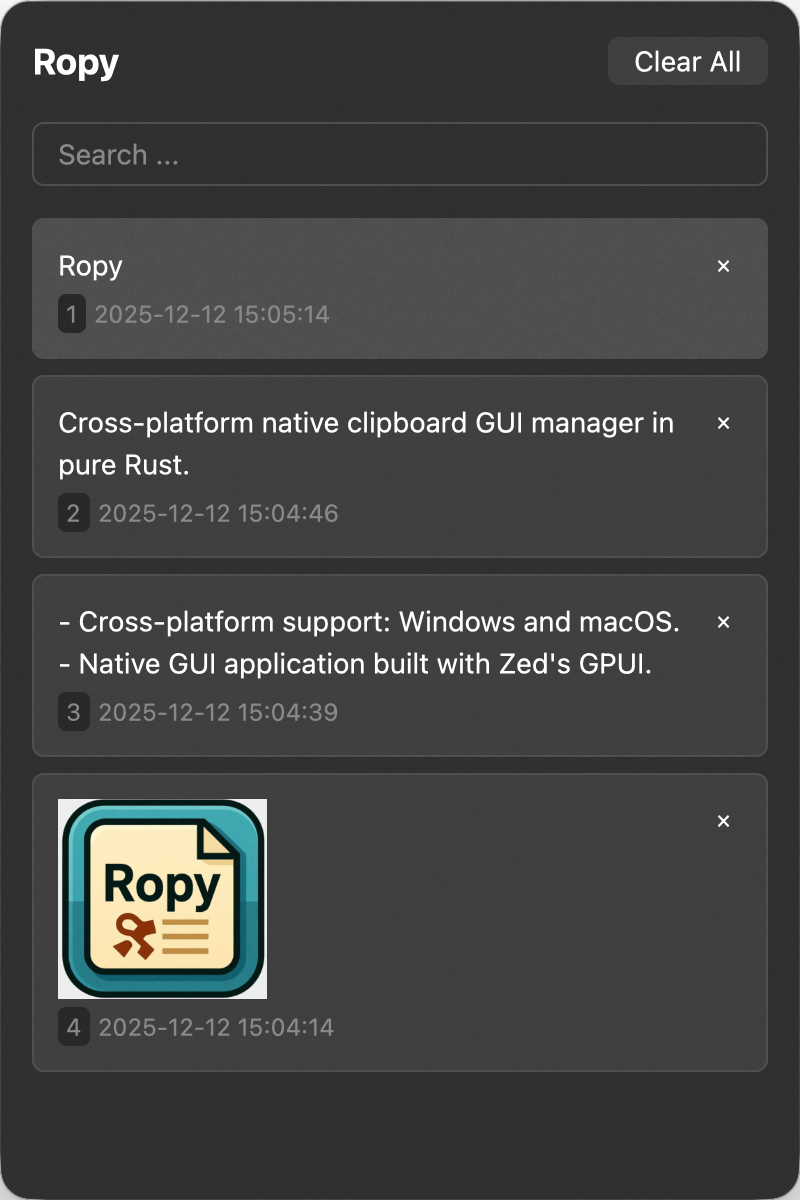
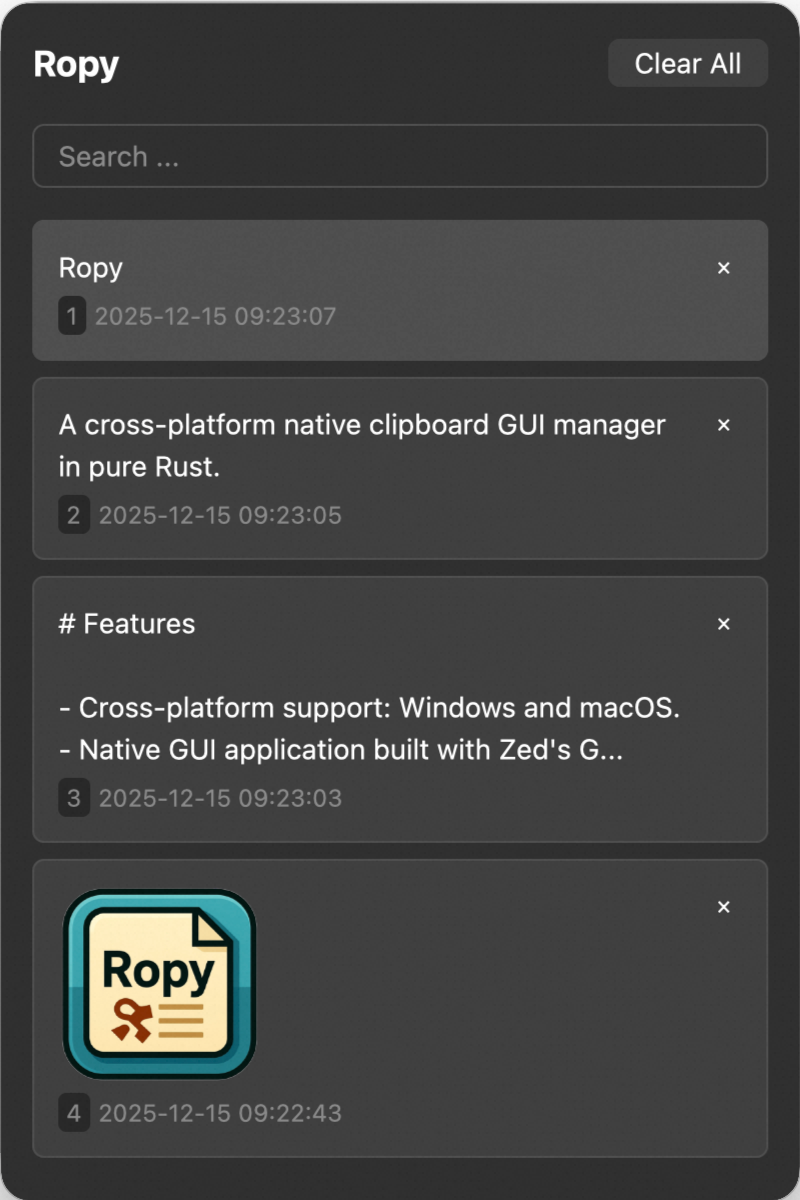
chore: update README and TODO files, enhance image display in GUI

diff --git a/src/gui/board.rs b/src/gui/board.rs
@@ -342,7 +342,7 @@ fn render_records_list(
                                                 path
                                             };
 
-                                            img(display_path).h(px(100.0)).into_any_element()
+                                            img(display_path).max_h(px(100.0)).into_any_element()
                                         }
                                         _ => div().child("Unknown content").into_any_element(),
                                     })

diff --git a/README.md b/README.md
@@ -1,34 +1,17 @@
-<img src="assets/logo.png" alt="Ropy Logo" width="10%">
+<img src="assets/logo.png" alt="Ropy Logo" width="20%">
+
+_**R**opy **O**rganizes **P**revious **Y**anks_
 
 A cross-platform native clipboard GUI manager in pure Rust.
+
+<img src="assets/image.png" alt="Ropy" width="50%">
 
 # Features
 
 - Cross-platform support: Windows and macOS.
 - Native GUI application built with Zed's GPUI.
 
-<img src="assets/image.png" alt="Ropy" width="50%">
+# Acknowledgements
 
-# TODO
-
-- Theme Toogle
-- Support for multiple languages
-- Log files
-- Provide installation packages and distribution channels
-- Support customizable shortcuts
-- Support clipboard content categorization
-- Provide detailed user documentation
-- Support more platforms (Linux)
-
-Windows Bug：
-
-- 微信聊天框闪退
-- ShareX 会自动拷贝两份
-- 窗口无法拖动。
-
-# NOT TODO
-
-- 不支持获取拷贝时的应用来源（系统剪切板不提供该字段，需要 Hack 获取）。
-- 不支持插件扩展功能（目前没有计划支持插件机制，Ropy 旨在保持轻量和简单）。
-- 不支持在线同步剪切板内容（目前不考虑云同步功能）。
-- 不支持命令行操作（Ropy 主要面向 GUI 用户，不提供命令行界面）。
+- Inspired by other clipboard managers like Ditto, Massy & CopyQ.
+- Built with Zed's GPUI.

diff --git a/TODO.md b/TODO.md
@@ -1,0 +1,27 @@
+# TODO
+
+- Theme Toogle
+- Support for multiple languages
+- Log files
+- Provide installation packages and distribution channels
+- Support customizable shortcuts
+- Support clipboard content categorization
+- Provide detailed user documentation
+- Support more platforms (Linux)
+
+Windows Bugs:
+
+- WeChat chat box crashes
+- ShareX automatically copies twice
+- Window cannot be dragged.
+
+Bugs:
+
+- After Clear, the listener should also be cleared, otherwise it will confuse users.
+
+# NOT TODO
+
+- Does not support obtaining the application source when copying (the system clipboard does not provide this field, requires Hack to obtain).
+- Does not support plugin extension functionality (currently no plans to support plugin mechanism, Ropy aims to remain lightweight and simple).
+- Does not support online synchronization of clipboard content (currently not considering cloud sync functionality).
+- Does not support command-line operations (Ropy is mainly for GUI users, does not provide a command-line interface).
